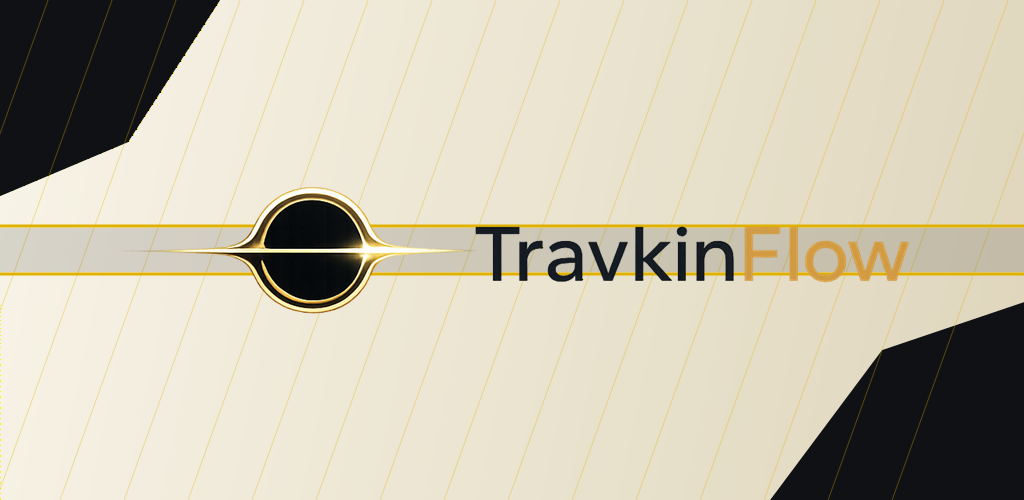
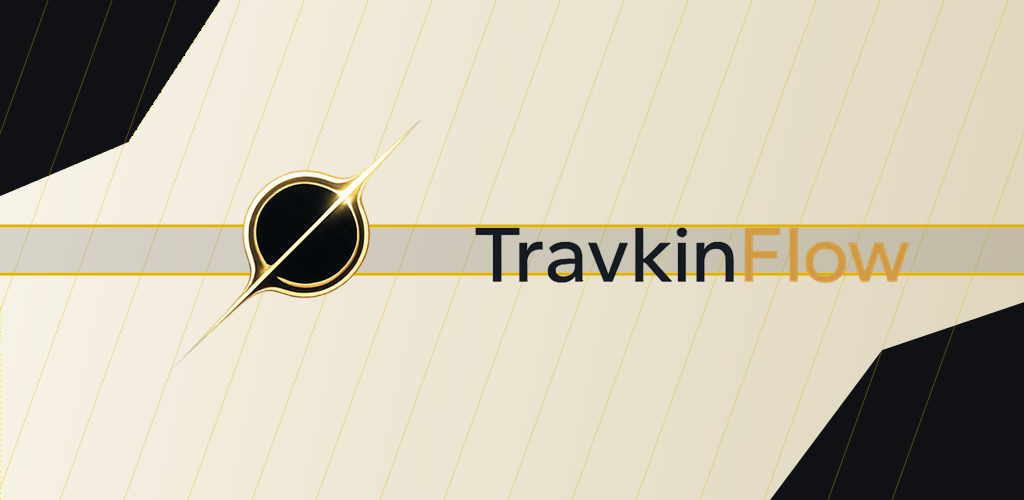
feat(android): rotate brand mark 45 degrees for 4.0.1

diff --git a/android/app/src/test/java/com/travkin/flow/TwaContractTest.java b/android/app/src/test/java/com/travkin/flow/TwaContractTest.java
@@ -23,8 +23,8 @@ public final class TwaContractTest {
         String build = readProjectFile("build.gradle");
 
         assertTrue(build.contains("applicationId \"com.travkin.flow\""));
-        assertTrue(build.contains("versionCode 4"));
-        assertTrue(build.contains("versionName \"4.0.0\""));
+        assertTrue(build.contains("versionCode 5"));
+        assertTrue(build.contains("versionName \"4.0.1\""));
         assertTrue(build.contains("targetSdk 36"));
     }
 

diff --git a/docs/google-play/brand-tilt45-20260920.md b/docs/google-play/brand-tilt45-20260920.md
@@ -1,0 +1,25 @@
+# Uniform 45-degree counterclockwise logo
+
+Owner confirmed a uniform 45-degree counterclockwise orientation, not an additional rotation on the old 32-degree sidebar exception. Text stays horizontal.
+
+## Website
+
+- Isolated branch: `codex/google-brand-rotation-20260920`.
+- Actual prior Production base: `48f9206498d2652542523e2a452acac1b404dc21`, not the older GitHub master. All other specialists' deployed changes retained.
+- Web commit: `a22de90ae41808eebe10e1465b6daa22e65b0b3c`.
+- Deployed and promoted: `dpl_7q2kEtdsuT8TmDRXCNBizLxYVXmT` / `agri-manager-l5n8gt5j8-travkin-ais-projects.vercel.app`.
+- Shared logo is rotated once; sidebar exception removed; registration uses the shared logo. Favicon, PWA, Apple, push/badge and social-card assets have versioned tilt45 URLs. Service-worker static cache version incremented.
+- TypeScript passed; shell contract 6/6 passed. Old unrelated warm-manor test expects obsolete estate-register theme and fails against the pre-existing estate-graphite baseline; not changed to conceal it.
+- Local browser login desktop and registration 390x844 inspected. Rotation matrix confirms -45 degrees, no horizontal overflow on registration. No account signup or business-data write performed.
+- Production health OK; manifest, SW, icon URLs and assetlinks 200/no redirects; Google DAL linked=true. Production health commit field is null, so source SHA is evidenced by isolated build source and CLI deploy, not that field.
+
+## Android / Play
+
+- Same `com.travkin.flow`, new `4.0.1` / code `5`; existing release is not removed.
+- App/splash/adaptive icon assets replaced with deterministic rotations of the existing originals. Original source artwork is retained in web `public/brand/v1` and version control. Wordmark text pixels are not rotated.
+- Gradle testDebugUnitTest, lintRelease and assembleDebug passed. No connected device/Android acceptance proof.
+- Updated icon and feature graphic uploaded to the existing Play app and saved as a store-listing draft. Still missing current phone screenshots; not publicly published.
+- Reviewer credential-transfer and account-deletion declaration gates remain. No Production Android submission made.
+- Production DB business writes for this logo change: 0. No migrations, permissions or business logic changed.
+
+Website uses Next.js shared-image conventions; React review kept the change presentation-only. Vercel staged the exact Production-based build before promotion.
